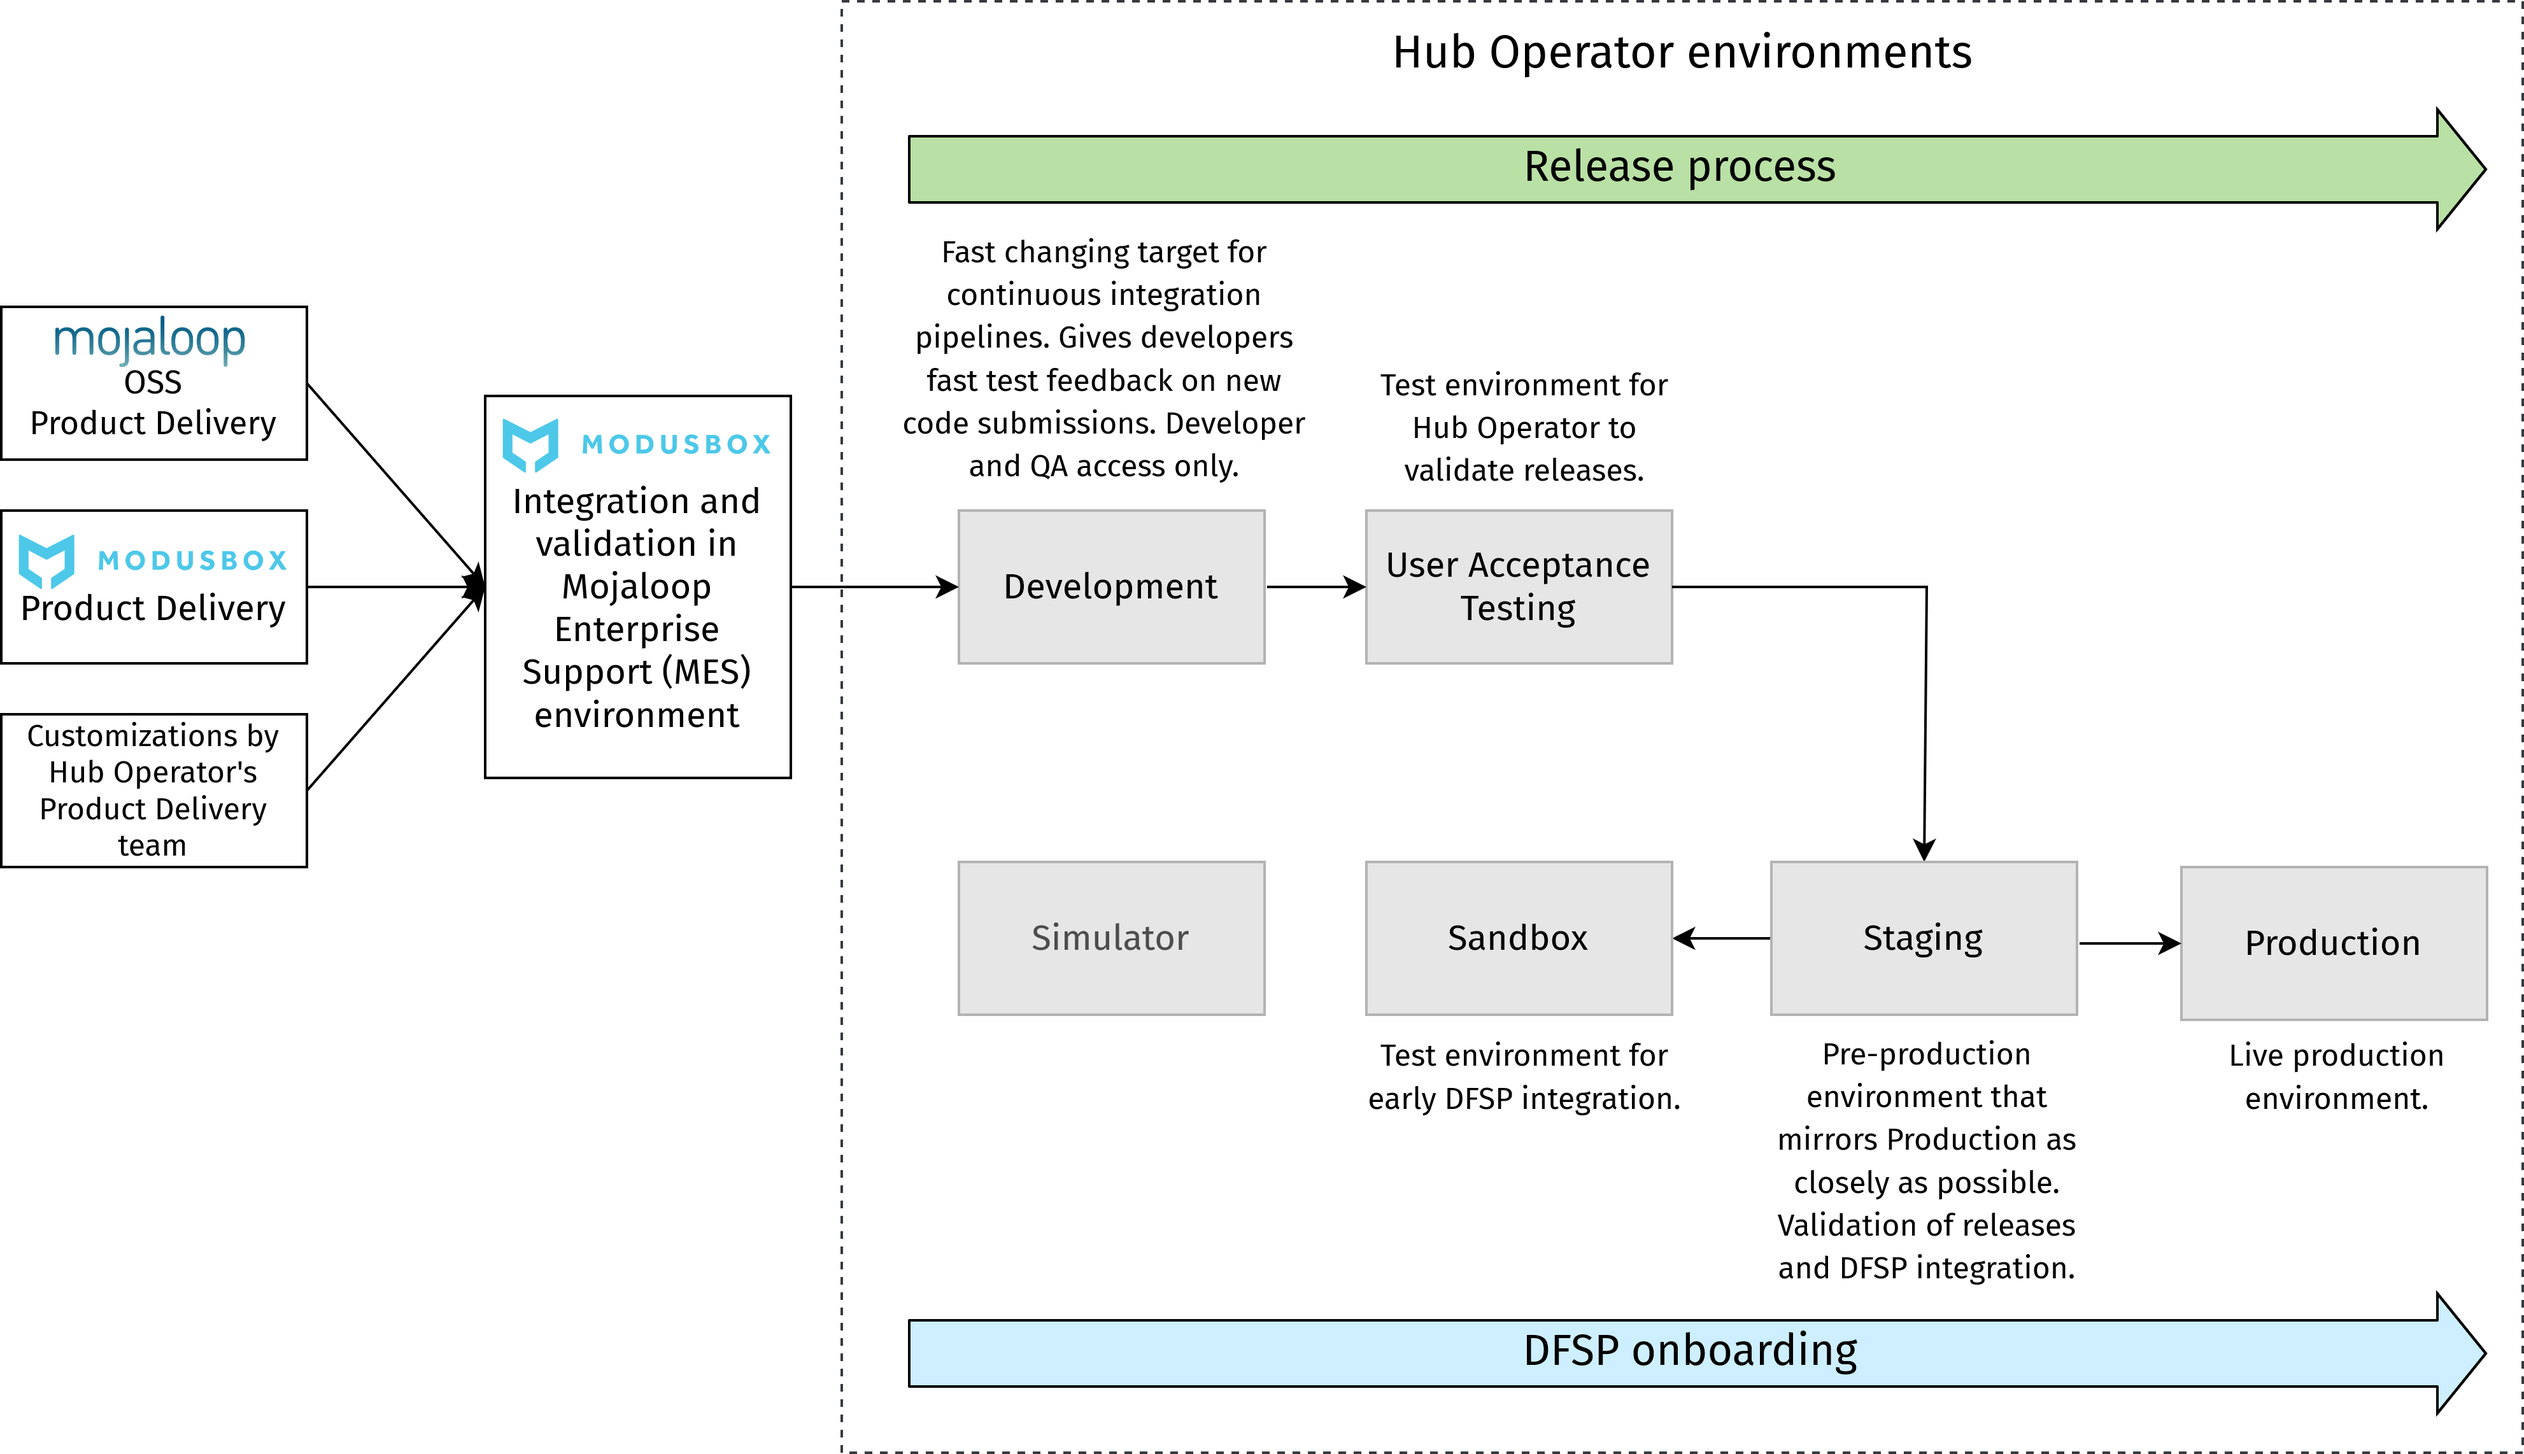
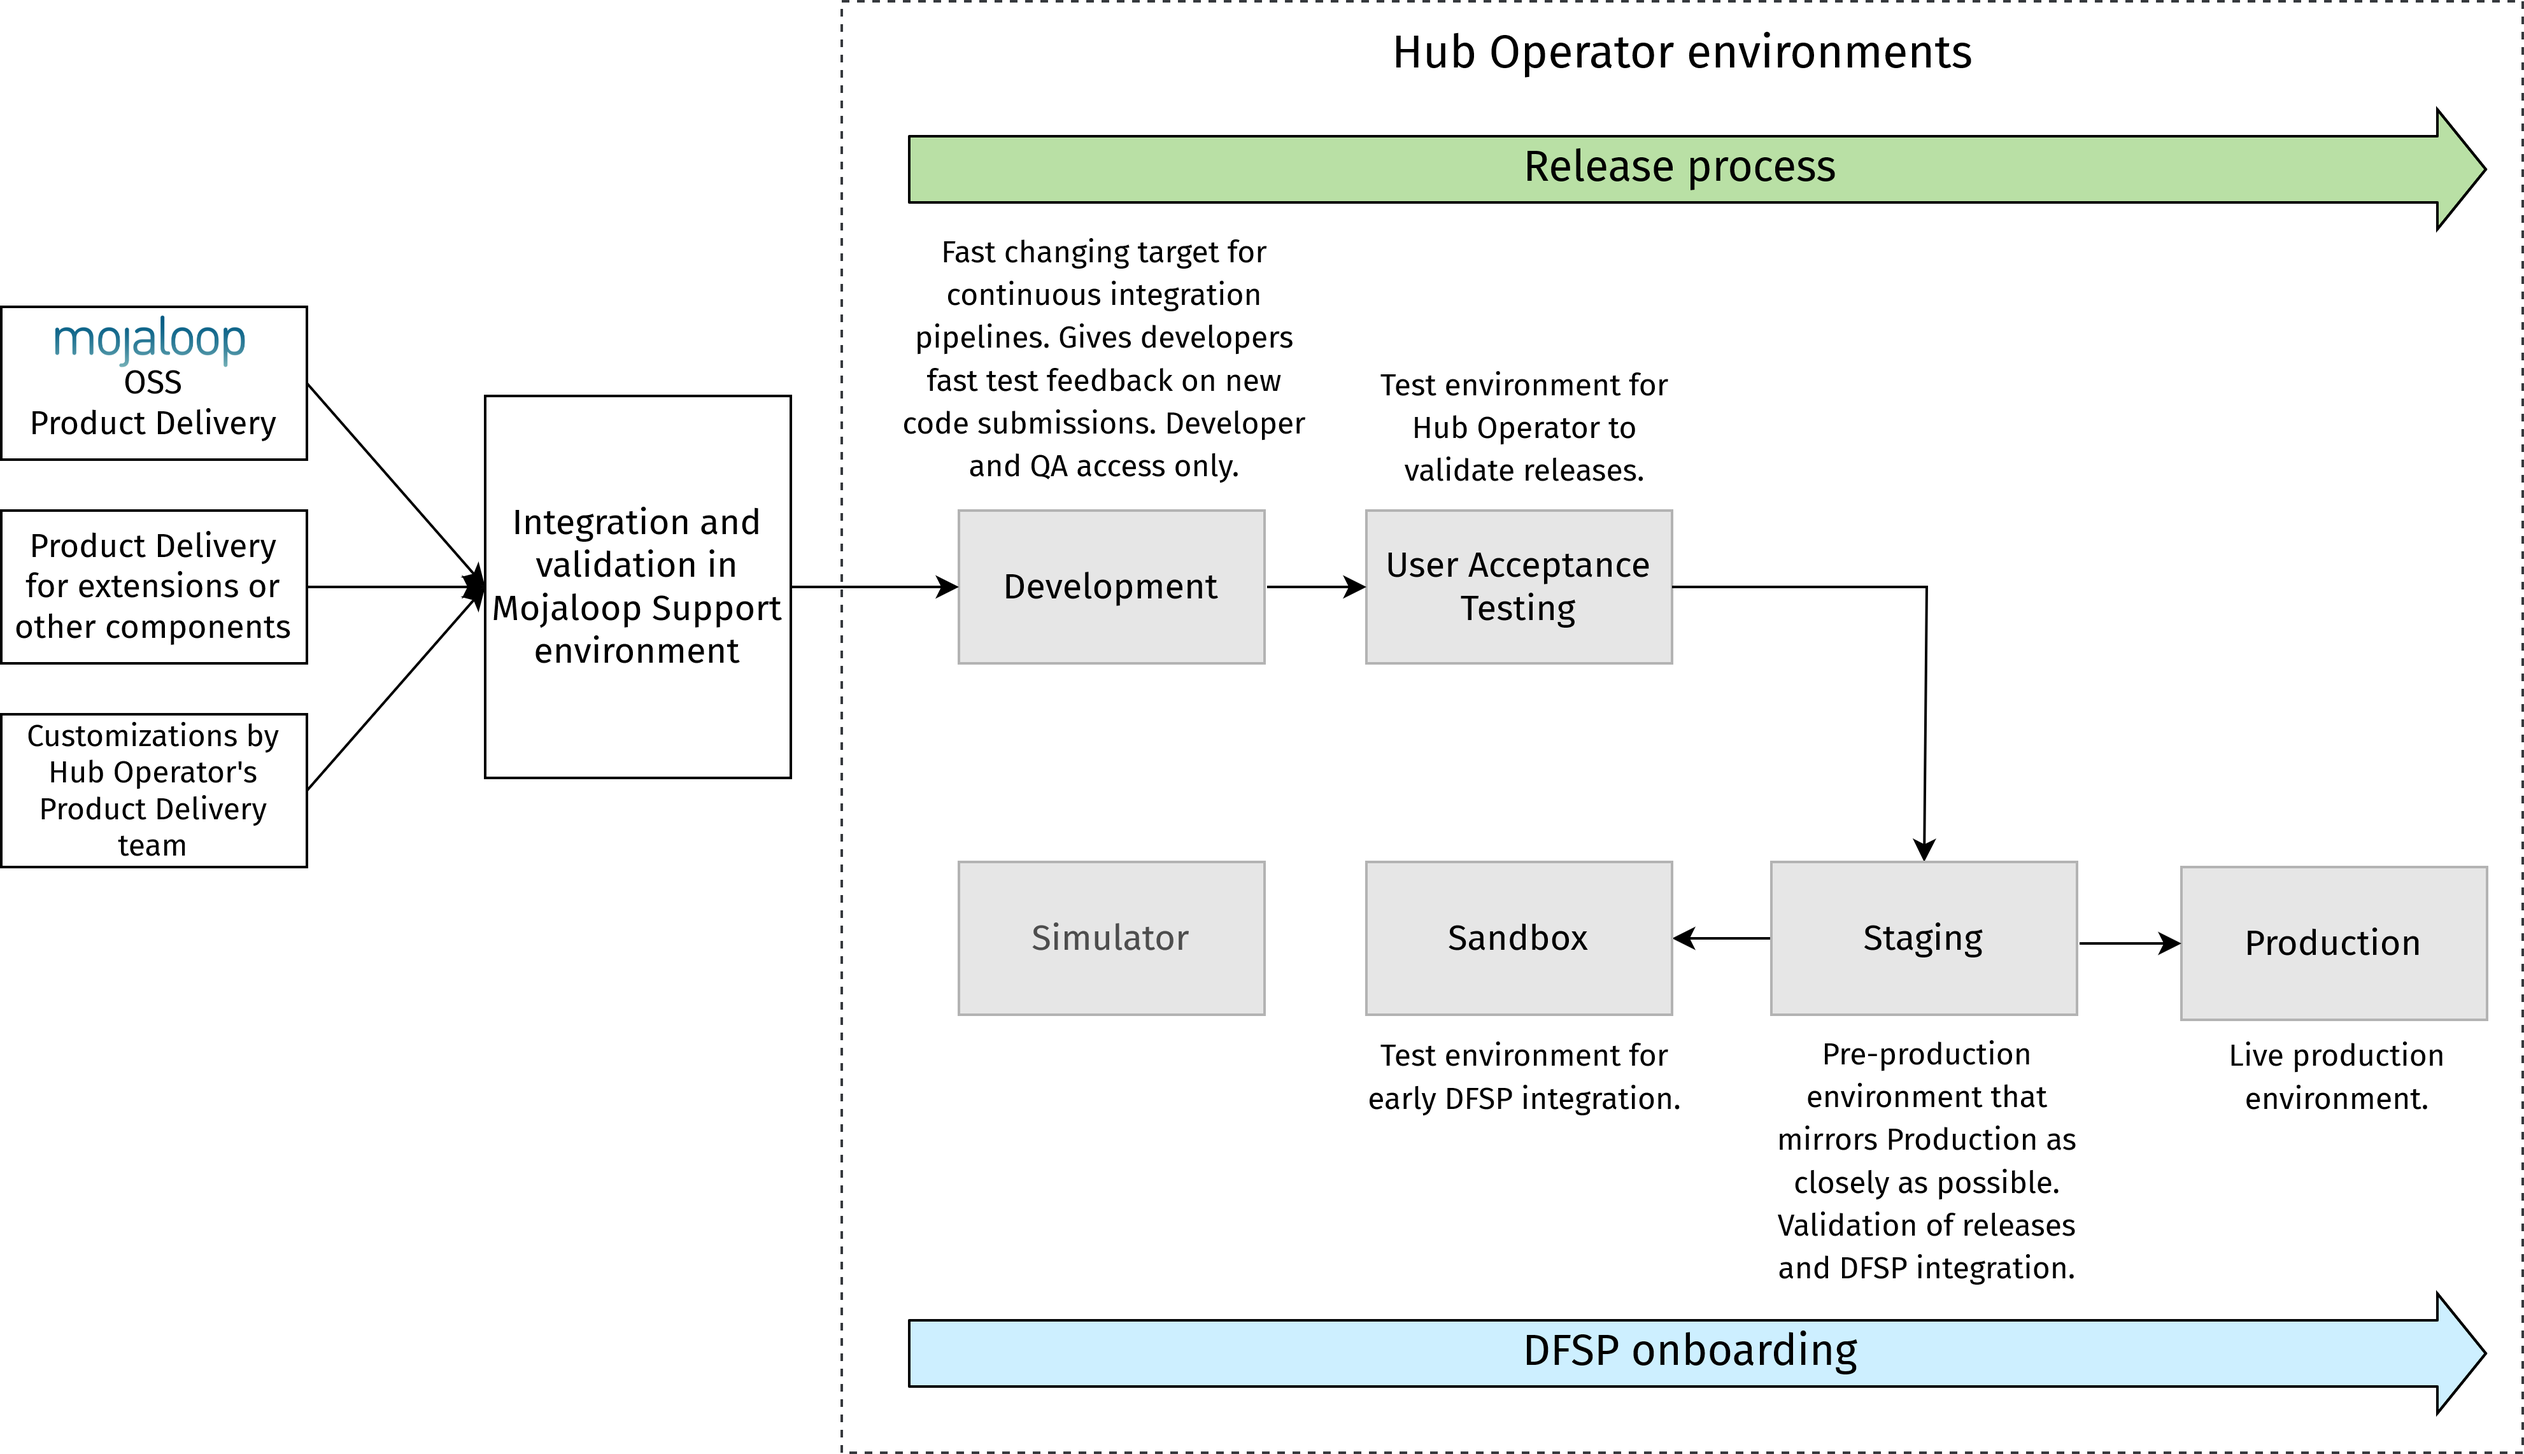
weeded out references to MBX

Changed region(s): [[0.1862, 0.2798, 0.3103, 0.4974], [0.0, 0.373, 0.1241, 0.4352]]

diff --git a/vuepress/docs/guides/release_management.md b/vuepress/docs/guides/release_management.md
@@ -12,13 +12,13 @@ When releasing new code from development to production, the code is taken throug
 
 ![Recommended environment setup](/release_mgmt.png)
 
-A client-specific implementation of the Hub is built on a number of service components (Mojaloop OSS, ModusBox products, potential customizations), and releases will include new releases or bug fixes of all of these components. 
+A client-specific implementation of the Hub is built on a number of service components (Mojaloop OSS, extensions or other components, potential customizations), and releases will include new releases or bug fixes of all of these components. 
 
 ![Service component releases](/release_service_components.png)
 
 ## Development and testing (Definition of Done)
 
-Standard development and QA practices – followed by Mojaloop and ModusBox – include the following as part of the Definition of Done. The recommendation is for the Hub Operator to adopt a similar strategy. 
+Standard development and QA practices – followed by Mojaloop – include the following as part of the Definition of Done. The recommendation is for the Hub Operator to adopt a similar strategy. 
 
 * Unit tests developed for every piece of code written.
 * Code, unit tests, and documentation have been peer reviewed.  
@@ -44,53 +44,53 @@ The standard practice for Mojaloop releases is as follows:
 A Program Increment is a timeboxed interval during which an Agile team delivers incremental value.
 * All Mojaloop maintenance updates, new features, and bug fixes are made available to users of Mojaloop as part of the release cycles, once in each PI period.
 
-## ModusBox product releases
+## Product releases of extensions/additional components
 
-The standard practice for ModusBox product releases is as follows:
+It is expected that the standard practice for the product releases of extensions/additional components is as follows:
 
-* All new versions of ModusBox products are made available via release packages and described within the release notes.
-* A release package includes automated end-to-end tests for each ModusBox product release. Test suites are versioned, with the version number corresponding to the version number of the product release.
-* ModusBox product releases are in line with the Mojaloop release cadence, once in each PI period.
-* All product maintenance updates, new features, and bug fixes are made available to users of ModusBox products as part of the release cycle, once in each PI period.
+* All new product versions are made available via release packages and described within the release notes.
+* A release package includes automated end-to-end tests for each product release. Test suites are versioned, with the version number corresponding to the version number of the product release.
+* Product releases are in line with the Mojaloop release cadence, once in each PI period.
+* All product maintenance updates, new features, and bug fixes are made available to users of extension/additional products as part of the release cycle, once in each PI period.
 
 ## Bugs and hotfixes
 
 Bugs and hotfixes are handled in the following way:
 
-* All bug fixes (both Mojaloop and ModusBox products) are included in the release packages.
+* All bug fixes (both Mojaloop and other products) are included in the release packages.
 * Likewise, hotfixes are also provided via a release. It is not recommended to deploy hotfixes directly from the specific application package releases, as deploying only a single component of a release (as opposed to deploying the release that includes the updated component) can result in the Hub being out of sync with the application package release.
 * Bugs are tracked, managed, and prioritized as defined in the [defect triage process](defect_triage.md): 
     * The Service Desk tool is used for managing all bugs. 
-    * The Mojaloop Enterprise Support Triage team, that is, the ModusBox and Mojaloop Product Delivery and Product Management teams are involved in analyzing urgency and impact to determine prioritization of bugs, including resolution planning/scheduling and communication back to the Hub Operator.
+    * A Triage team with representatives from both Mojaloop and other Product Delivery and Product Management teams are involved in analyzing urgency and impact to determine prioritization of bugs, including resolution planning/scheduling and communication back to the Hub Operator.
 
 ## Environments and QA strategy
 
-In order to validate the deployment of the Mojaloop release against the latest ModusBox products, a temporary environment is required to be set up. This allows the Mojaloop Enterprise Support team to carry out the deployment and testing of Mojaloop releases against the latest versions of ModusBox products. 
+In order to validate the deployment of the Mojaloop release against the latest other products, a temporary environment is required to be set up. This allows the Mojaloop Support team to carry out the deployment and testing of Mojaloop releases against the latest versions of other products. 
 
 ::: tip NOTE
-The temporary environment that ModusBox uses for validation follows a standard infrastructure, which may differ from the infrastructure that the Hub Operator uses. The Operator must either ensure they have up-to-date information about the differences at all times, or choose to set up their infrastructure so it is fully in sync with ModusBox infrastructure standards.
+The temporary environment that the Mojaloop Support team use for validation should follow a standard infrastructure. This standard infrastructure may differ from the infrastructure that the Hub Operator uses. The Operator must either ensure they have up-to-date information about the differences at all times, or choose to set up their infrastructure so it is fully in sync with the Mojaloop Support team's infrastructure standards.
 ::: 
 
-Following the successful deployment and validation of a release on the standard ModusBox infrastructure and architecture, and after successfully running the latest version of Mojaloop and ModusBox products, the release is approved and can be scheduled for deployment into the Hub Operator’s (potentially bespoke) Development environment. 
+Following the successful deployment and validation of a release on the standard infrastructure and architecture, and after successfully running the latest version of Mojaloop and other products, the release is approved and can be scheduled for deployment into the Hub Operator's (potentially bespoke) Development environment. 
 
-The QA strategy employed by the Mojaloop and ModusBox product delivery teams ensures that new code of each and every service component has undergone comprehensive testing before it gets released. The QA strategy of the Mojaloop Enterprise Support team, on the other hand, focuses on validating the deployability of the integrated service components, guaranteeing that there is a working Mojaloop Switch, which then can be deployed in a Hub Operator’s environment.
+The QA strategy employed by the Mojaloop and other product delivery teams ensures that new code of each and every service component has undergone comprehensive testing before it gets released. The QA strategy of the Mojaloop Support team, on the other hand, should focus on validating the deployability of the integrated service components, guaranteeing that there is a working Mojaloop Switch, which then can be deployed in a Hub Operator's environment.
 
 ## Release process
 
 The recommendation for Hub implementations is to stay in line with the Mojaloop release cadence of one release every PI period and avoid deploying individual changes directly from the master branch of specific applications, components, or services within Mojaloop. This recommendation ensures that the integrity of the applications remains cleaner and in line with the source repositories. 
 
-The Mojaloop Enterprise Support (MES) team schedule a new release for every PI, in line with the Mojaloop and ModusBox product release cadence. Hub Operators are informed about the target release date well ahead of time.
+The Mojaloop Support team should schedule a new release for every PI, in line with the Mojaloop and other product release cadence. Hub Operators are informed about the target release date well ahead of time.
 
-For every release, the Mojaloop Enterprise Support team takes the following steps:
+For every release, the Mojaloop Support team is recommended to take the following steps:
 
-1. The MES team review all release artifacts including release notes, associated documentation and deployment runbook as soon as they are made available. 
-1. The MES team conduct deployment and validation of the planned Mojaloop and ModusBox product releases in a temporary MES environment (using the standard ModusBox infrastructure but matching the client’s – that is, the Hub Operator’s – application versions). 
-1. Following the successful deployment and validation of a release on the standard ModusBox infrastructure and architecture, and after successfully running the latest version of Mojaloop and ModusBox products, the release is approved and can be scheduled for deployment into the Hub Operator’s Development environment.
-1. The MES team confirm readiness (and optionally, target deployment window) for the deployment into the Hub Operator’s Dev environment. \
+1. The Mojaloop Support team review all release artifacts including release notes, associated documentation and deployment runbook as soon as they are made available. 
+1. The Mojaloop Support team conduct deployment and validation of the planned Mojaloop and other product releases in a temporary Mojaloop Support environment (using the standard Mojaloop Support infrastructure but matching the client's – that is, the Hub Operator's – application versions). 
+1. Following the successful deployment and validation of a release on the standard Mojaloop Support infrastructure and architecture, and after successfully running the latest version of Mojaloop and other products, the release is approved and can be scheduled for deployment into the Hub Operator's Development environment.
+1. The Mojaloop Support team confirm readiness (and optionally, target deployment window) for the deployment into the Hub Operator's Dev environment. \
 \
-It is the Hub Operator's responsibility to carry out deployment into the Development environment and subsequent validation. Alternatively, they can request ModusBox to perform these activities on their behalf (based on their MES License Agreement). \
+It is the Hub Operator's responsibility to carry out deployment into the Development environment and subsequent validation. Alternatively, they can request Mojaloop Support to perform these activities on their behalf. \
 \
-The MES team sends out an email (or any other form of communication depending on the Hub Operator’s preferences) with information on the target release date and the range of features included in the release. If the Hub Operator requests the MES team to perform deployment into their Development environment, then communication includes information about the deployment window too. Following deployment, further communication is sent out to confirm that the deployment has been carried out, validated, and the deployment window has closed.
+The Mojaloop Support team sends out an email (or any other form of communication depending on the Hub Operator’s preferences) with information on the target release date and the range of features included in the release. If the Hub Operator requests the Mojaloop Support team to perform deployment into their Development environment, then communication includes information about the deployment window too. Following deployment, further communication is sent out to confirm that the deployment has been carried out, validated, and the deployment window has closed.
 1. It is the Hub Operator's responsibility to take the release to higher environments and proceed with the acceptance of the release.
 
-![Mojaloop and ModusBox release cycle](/release_process.png)
+![Mojaloop and other components release cycle](/release_process.png)
